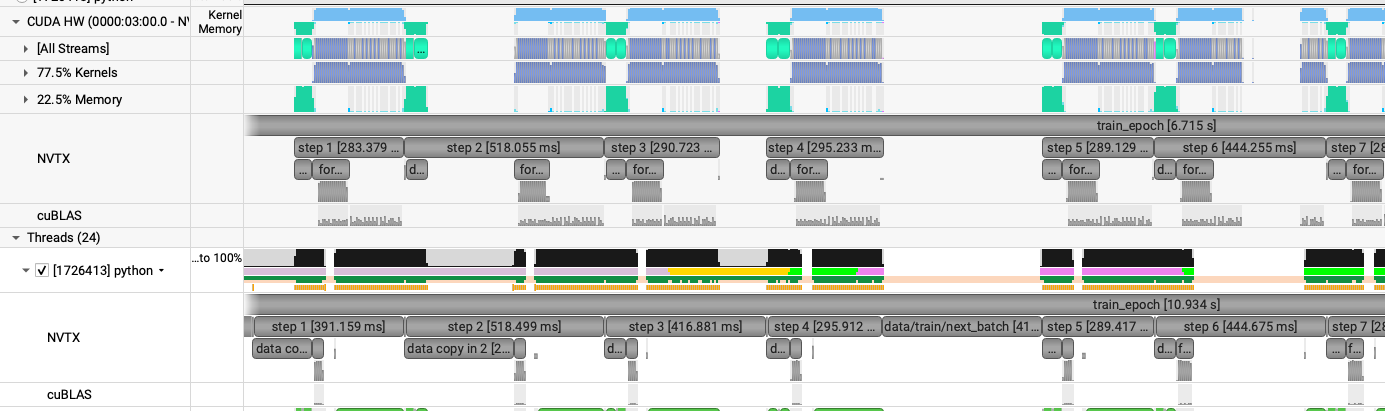
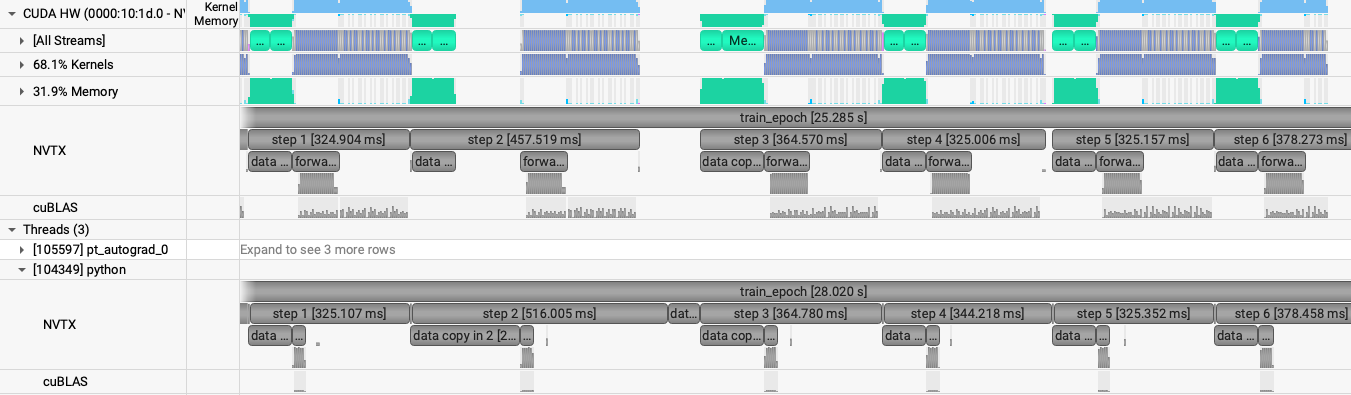
update swin/single-gpu.md with new logs and profiles

diff --git a/docs/swin/single-gpu.md b/docs/swin/single-gpu.md
@@ -2,7 +2,7 @@
 
 [Tutorial](../../README.md) · [Data parallel](data-parallel.md) · [Model parallel](model-parallel.md)
 
-Swin attends inside shifted windows instead of across every patch. The training budget matches the [ViT single-GPU page](../vit/single-gpu.md): `embed_dim: 512`, `depth: 12`, `patch_size: 32`, global batch 4, and 64 / 16 samples. `window_size: [16, 16]` divides the 128×128 patch grid. The knobs are the same three steps. [`config/swin.yaml`](../../config/swin.yaml) holds the blocks, and [`networks/swin.py`](../../networks/swin.py) is the model.
+Swin attends inside shifted windows instead of across every patch. The model size matches the [ViT single-GPU page](../vit/single-gpu.md): `embed_dim: 512`, `depth: 12`, `patch_size: 32`, and global batch 4. Swin's step is short enough that `short` trains on 256 samples and validates on 32, against 64 / 16 for the ViT, so each epoch is 64 steps instead of 16. `window_size: [16, 16]` divides the 128×128 patch grid. The knobs are the same three steps. [`config/swin.yaml`](../../config/swin.yaml) holds the blocks, and [`networks/swin.py`](../../networks/swin.py) is the model.
 
 ## Profiling
 
@@ -18,28 +18,28 @@ Log: `$HOME/sc26-dl-tutorial/logs/short/1GPU/swin/out.log`. Profile: `swin_short
 The first three epochs look like this:
 
 ```text
-2026-11-10 11:45:09,118 - root - INFO - Starting Training Loop...
-2026-11-10 11:45:19,714 - root - INFO -  Memory usage after forward pass: 29.21258544921875 GB.
-2026-11-10 11:45:43,344 - root - INFO - Time taken for epoch 1 is 22.755364 sec, avg 2.812524 samples/sec
-2026-11-10 11:45:43,350 - root - INFO -   Avg train loss=0.453776
-2026-11-10 11:45:43,355 - root - INFO -   Avg val loss=0.2938965857028961
-2026-11-10 11:45:43,360 - root - INFO -   Total validation time: 3.239035129547119 sec
-2026-11-10 11:45:45,009 - root - INFO -  Memory usage after forward pass: 31.39227294921875 GB.
-2026-11-10 11:46:03,020 - root - INFO - Time taken for epoch 2 is 15.456323 sec, avg 4.140700 samples/sec
-2026-11-10 11:46:03,025 - root - INFO -   Avg train loss=0.171803
-2026-11-10 11:46:03,035 - root - INFO -   Avg val loss=0.20057116448879242
-2026-11-10 11:46:03,041 - root - INFO -   Total validation time: 2.2224948406219482 sec
-2026-11-10 11:46:04,696 - root - INFO -  Memory usage after forward pass: 31.39227294921875 GB.
-2026-11-10 11:46:22,699 - root - INFO - Time taken for epoch 3 is 15.448804 sec, avg 4.142716 samples/sec
-2026-11-10 11:46:22,705 - root - INFO -   Avg train loss=0.127628
-2026-11-10 11:46:22,715 - root - INFO -   Avg val loss=0.17503631114959717
-2026-11-10 11:46:22,720 - root - INFO -   Total validation time: 2.219019889831543 sec
+2026-11-12 02:59:37,874 - root - INFO - Starting Training Loop...
+2026-11-12 02:59:54,972 - root - INFO -  Memory usage after forward pass: 29.21038818359375 GB.
+2026-11-12 03:02:45,816 - root - INFO - Time taken for epoch 1 is 165.053337 sec, avg 1.551014 samples/sec
+2026-11-12 03:02:45,827 - root - INFO -   Avg train loss=0.214897
+2026-11-12 03:02:45,842 - root - INFO -   Avg val loss=0.11220473796129227
+2026-11-12 03:02:45,853 - root - INFO -   Total validation time: 11.5171639919281 sec
+2026-11-12 03:02:49,238 - root - INFO -  Memory usage after forward pass: 31.39007568359375 GB.
+2026-11-12 03:04:50,734 - root - INFO - Time taken for epoch 2 is 112.095470 sec, avg 2.283768 samples/sec
+2026-11-12 03:04:50,745 - root - INFO -   Avg train loss=0.085521
+2026-11-12 03:04:50,755 - root - INFO -   Avg val loss=0.10292744636535645
+2026-11-12 03:04:50,765 - root - INFO -   Total validation time: 9.890985012054443 sec
+2026-11-12 03:04:53,871 - root - INFO -  Memory usage after forward pass: 31.39007568359375 GB.
+2026-11-12 03:06:49,758 - root - INFO - Time taken for epoch 3 is 106.194316 sec, avg 2.410675 samples/sec
+2026-11-12 03:06:49,768 - root - INFO -   Avg train loss=0.074495
+2026-11-12 03:06:49,779 - root - INFO -   Avg val loss=0.08669812977313995
+2026-11-12 03:06:49,789 - root - INFO -   Total validation time: 9.893285036087036 sec
 ```
 
 Recorded performance, leaving out epoch 1 and the profiled epoch:
 
-- GPU memory: 31.392 GB peak.
-- Throughput: 4.14 samples/sec.
+- GPU memory: 31.390 GB peak.
+- Throughput: 2.35 samples/sec.
 
 The profiled epoch is mostly idle. Each step is a short burst of GPU work, and the gap before the next step is wider than the step itself.
 
@@ -59,28 +59,28 @@ Log: `$HOME/sc26-dl-tutorial/logs/short_opt/1GPU/swin_opt/out.log`. Profile: `sw
 The first epoch pays for `torch.compile`. The next two are the steady rate:
 
 ```text
-2026-11-10 11:46:02,097 - root - INFO - Starting Training Loop...
-2026-11-10 11:46:46,957 - root - INFO -  Memory usage after forward pass: 19.05438232421875 GB.
-2026-11-10 11:46:58,189 - root - INFO - Time taken for epoch 1 is 22.123362 sec, avg 2.892869 samples/sec
-2026-11-10 11:46:58,194 - root - INFO -   Avg train loss=0.463530
-2026-11-10 11:46:58,205 - root - INFO -   Avg val loss=0.3136071264743805
-2026-11-10 11:46:58,210 - root - INFO -   Total validation time: 4.001360893249512 sec
-2026-11-10 11:47:03,049 - root - INFO -  Memory usage after forward pass: 21.11297607421875 GB.
-2026-11-10 11:47:14,849 - root - INFO - Time taken for epoch 2 is 10.984254 sec, avg 5.826522 samples/sec
-2026-11-10 11:47:14,855 - root - INFO -   Avg train loss=0.190715
-2026-11-10 11:47:14,865 - root - INFO -   Avg val loss=0.22433295845985413
-2026-11-10 11:47:14,865 - root - INFO -   Total validation time: 3.758100986480713 sec
-2026-11-10 11:47:19,347 - root - INFO -  Memory usage after forward pass: 21.11297607421875 GB.
-2026-11-10 11:47:31,291 - root - INFO - Time taken for epoch 3 is 11.024850 sec, avg 5.805068 samples/sec
-2026-11-10 11:47:31,296 - root - INFO -   Avg train loss=0.139245
-2026-11-10 11:47:31,307 - root - INFO -   Avg val loss=0.18777012825012207
-2026-11-10 11:47:31,312 - root - INFO -   Total validation time: 3.4977035522460938 sec
+2026-11-12 03:00:13,939 - root - INFO - Starting Training Loop...
+2026-11-12 03:01:00,308 - root - INFO -  Memory usage after forward pass: 19.06787109375 GB.
+2026-11-12 03:01:40,645 - root - INFO - Time taken for epoch 1 is 50.586947 sec, avg 5.060594 samples/sec
+2026-11-12 03:01:40,656 - root - INFO -   Avg train loss=0.212684
+2026-11-12 03:01:40,671 - root - INFO -   Avg val loss=0.11370135843753815
+2026-11-12 03:01:40,682 - root - INFO -   Total validation time: 5.895118474960327 sec
+2026-11-12 03:01:44,046 - root - INFO -  Memory usage after forward pass: 21.12451171875 GB.
+2026-11-12 03:02:16,747 - root - INFO - Time taken for epoch 2 is 28.112366 sec, avg 9.106313 samples/sec
+2026-11-12 03:02:16,757 - root - INFO -   Avg train loss=0.085068
+2026-11-12 03:02:16,768 - root - INFO -   Avg val loss=0.1001790314912796
+2026-11-12 03:02:16,778 - root - INFO -   Total validation time: 5.109506368637085 sec
+2026-11-12 03:02:20,242 - root - INFO -  Memory usage after forward pass: 21.12451171875 GB.
+2026-11-12 03:02:53,421 - root - INFO - Time taken for epoch 3 is 28.785261 sec, avg 8.893440 samples/sec
+2026-11-12 03:02:53,431 - root - INFO -   Avg train loss=0.073881
+2026-11-12 03:02:53,442 - root - INFO -   Avg val loss=0.08700230717658997
+2026-11-12 03:02:53,452 - root - INFO -   Total validation time: 5.015381574630737 sec
 ```
 
 Recorded performance, leaving out epoch 1 and the profiled epoch:
 
-- GPU memory: 21.113 GB peak, down from 31.392 GB in the FP32 baseline.
-- Throughput: 5.82 samples/sec, up from 4.14 samples/sec.
+- GPU memory: 21.125 GB peak, down from 31.390 GB in the FP32 baseline.
+- Throughput: 9.00 samples/sec, up from 2.35 samples/sec.
 
 BF16 shortens the GPU work, and the gaps shrink with it. They are still there. Window attention is a much shorter step than the ViT forward, so even with 4 workers, instead of the ViT's 2, the host load between steps still shows up.
 
@@ -100,30 +100,30 @@ Log: `$HOME/sc26-dl-tutorial/logs/short_opt_dali/1GPU/swin_dali/out.log`. Profil
 The first epoch still pays for `torch.compile`. The next two are the steady rate:
 
 ```text
-2026-11-10 11:50:01,612 - root - INFO - Starting Training Loop...
-2026-11-10 11:50:26,871 - root - INFO -  Memory usage after forward pass: 24.60125732421875 GB.
-2026-11-10 11:50:35,795 - root - INFO - Time taken for epoch 1 is 13.695464 sec, avg 4.381012 samples/sec
-2026-11-10 11:50:35,800 - root - INFO -   Avg train loss=0.472994
-2026-11-10 11:50:35,811 - root - INFO -   Avg val loss=0.307951420545578
-2026-11-10 11:50:35,821 - root - INFO -   Total validation time: 2.3679275512695312 sec
-2026-11-10 11:50:36,222 - root - INFO -  Memory usage after forward pass: 26.65985107421875 GB.
-2026-11-10 11:50:45,592 - root - INFO - Time taken for epoch 2 is 5.104697 sec, avg 12.537472 samples/sec
-2026-11-10 11:50:45,597 - root - INFO -   Avg train loss=0.192022
-2026-11-10 11:50:45,607 - root - INFO -   Avg val loss=0.21398788690567017
-2026-11-10 11:50:45,618 - root - INFO -   Total validation time: 2.3780429363250732 sec
-2026-11-10 11:50:46,011 - root - INFO -  Memory usage after forward pass: 26.66375732421875 GB.
-2026-11-10 11:50:54,933 - root - INFO - Time taken for epoch 3 is 5.146754 sec, avg 12.435023 samples/sec
-2026-11-10 11:50:54,939 - root - INFO -   Avg train loss=0.133835
-2026-11-10 11:50:54,949 - root - INFO -   Avg val loss=0.17917819321155548
-2026-11-10 11:50:54,954 - root - INFO -   Total validation time: 1.8564786911010742 sec
+2026-11-12 03:00:57,680 - root - INFO - Starting Training Loop...
+2026-11-12 03:01:19,395 - root - INFO -  Memory usage after forward pass: 24.60101318359375 GB.
+2026-11-12 03:01:41,749 - root - INFO - Time taken for epoch 1 is 25.304571 sec, avg 9.958675 samples/sec
+2026-11-12 03:01:41,760 - root - INFO -   Avg train loss=0.218540
+2026-11-12 03:01:41,765 - root - INFO -   Avg val loss=0.11386848241090775
+2026-11-12 03:01:41,770 - root - INFO -   Total validation time: 3.258631944656372 sec
+2026-11-12 03:01:42,287 - root - INFO -  Memory usage after forward pass: 26.66156005859375 GB.
+2026-11-12 03:02:02,998 - root - INFO - Time taken for epoch 2 is 16.567833 sec, avg 15.451629 samples/sec
+2026-11-12 03:02:03,009 - root - INFO -   Avg train loss=0.086518
+2026-11-12 03:02:03,019 - root - INFO -   Avg val loss=0.10185879468917847
+2026-11-12 03:02:03,024 - root - INFO -   Total validation time: 1.8626148700714111 sec
+2026-11-12 03:02:03,538 - root - INFO -  Memory usage after forward pass: 26.66156005859375 GB.
+2026-11-12 03:02:24,291 - root - INFO - Time taken for epoch 3 is 16.529154 sec, avg 15.487786 samples/sec
+2026-11-12 03:02:24,301 - root - INFO -   Avg train loss=0.075379
+2026-11-12 03:02:24,306 - root - INFO -   Avg val loss=0.0876319482922554
+2026-11-12 03:02:24,312 - root - INFO -   Total validation time: 1.8594958782196045 sec
 ```
 
 Recorded performance, leaving out epoch 1 and the profiled epoch:
 
-- GPU memory: 26.664 GB peak, up from 21.113 GB with the PyTorch loader. Before the first step the device is already at 7.793 GB, against 1.226 GB for `short_opt`. That increase is DALI's copy of the prefetched batches.
-- Throughput: 12.49 samples/sec, up from 5.82 samples/sec.
+- GPU memory: 26.662 GB peak, up from 21.125 GB with the PyTorch loader. Before the first step the device is already at 7.790 GB, against 1.224 GB for `short_opt`. That increase is DALI's copy of the prefetched batches.
+- Throughput: 15.47 samples/sec, up from 9.00 samples/sec.
 
-DALI closes most of those gaps. Its kernels run on a second stream while the step is in flight, and the steps sit against each other. This is the large jump, from 5.82 to 12.49 samples/sec. 
+DALI closes most of those gaps. Its kernels run on a second stream while the step is in flight, and the steps sit against each other. That takes throughput from 9.00 to 15.47 samples/sec, on top of the 3.8× gain from `short_opt`.
 
 ![Swin DALI profile, steps packed together with DALI on a second stream](../../tutorial_images/swin_short_opt_dali.png)
 
